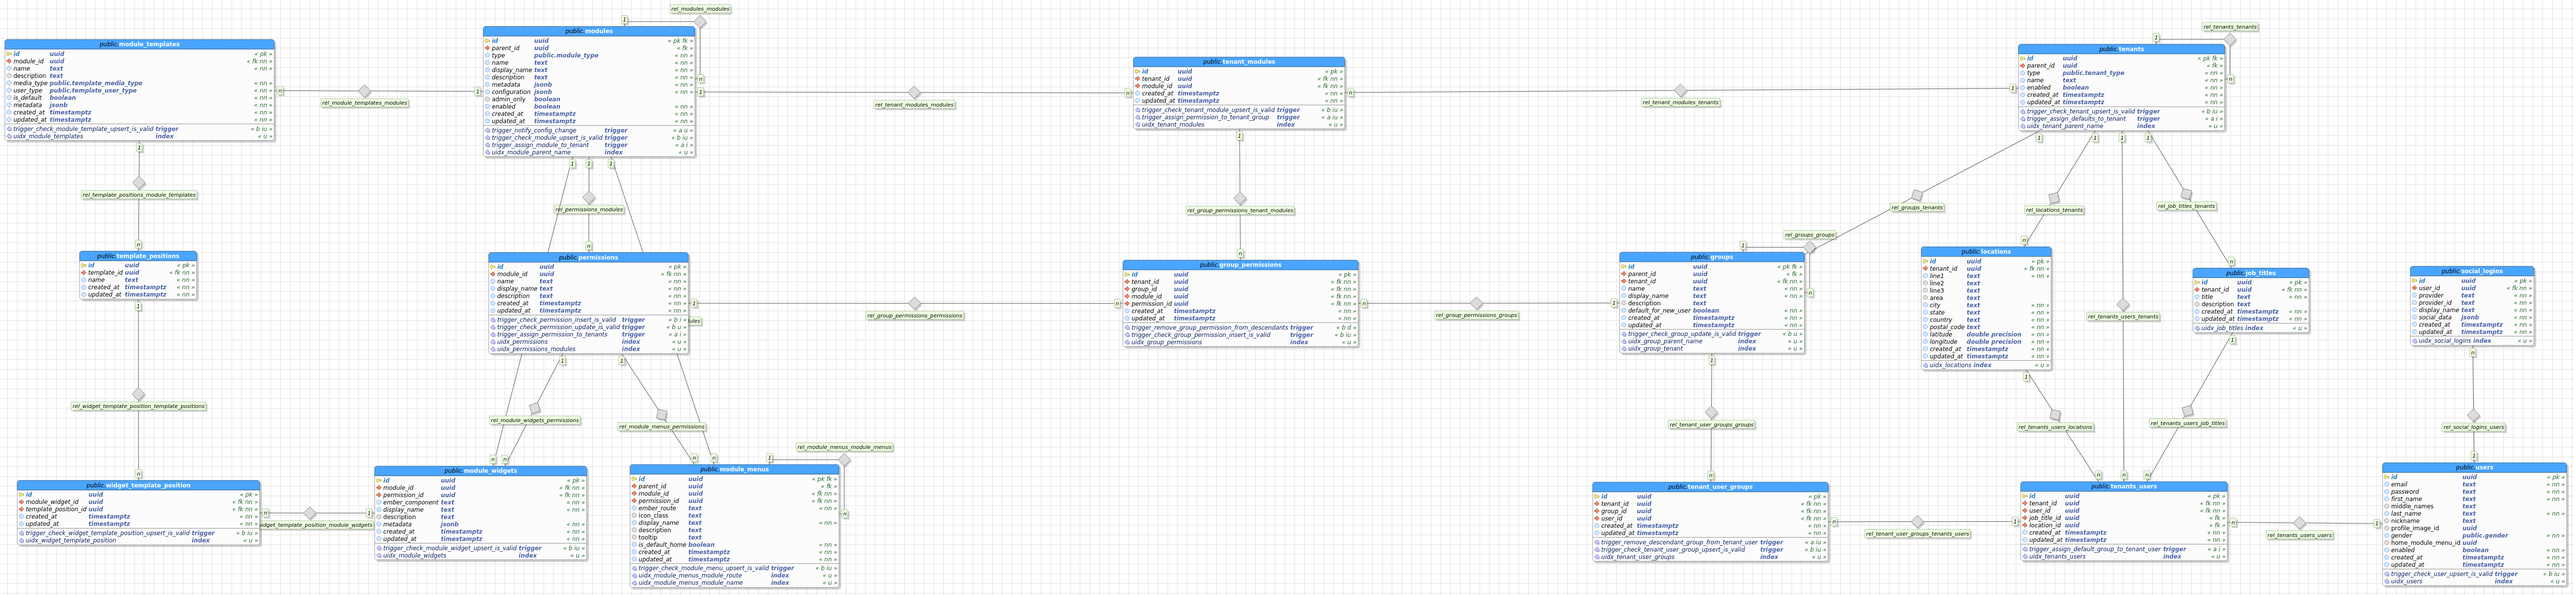
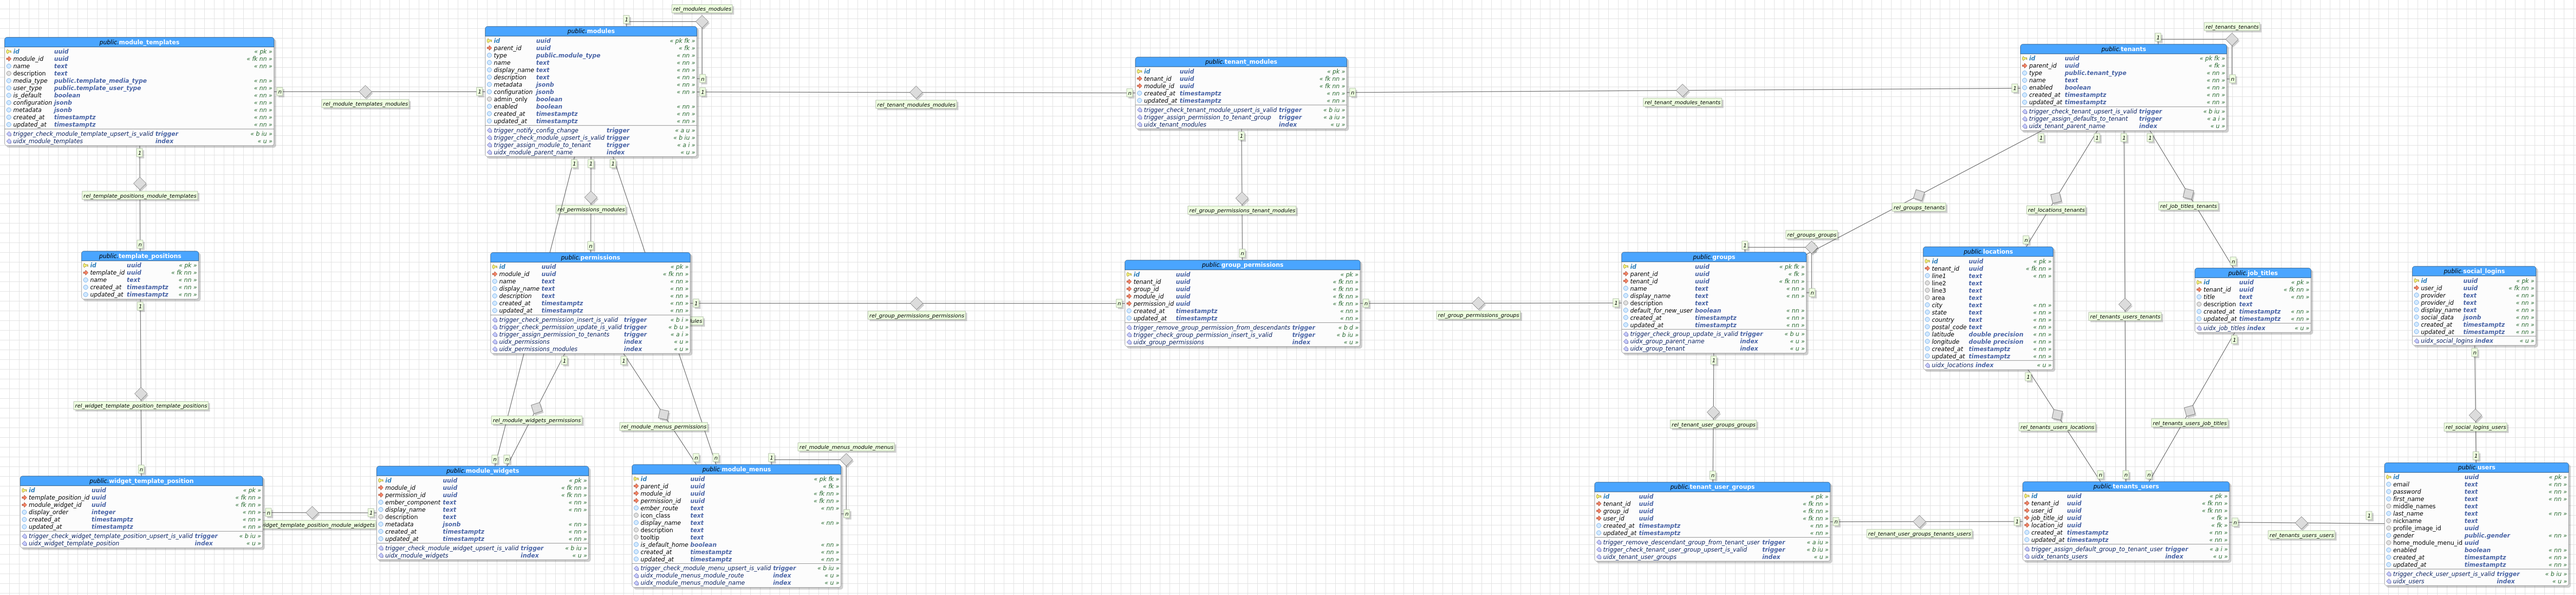
Changes in the DB schema & Knex migrations - along with a few minor bug-fixes

diff --git a/knex_migrations/migrations/20160426165450_twyr_webapp_schema.js b/knex_migrations/migrations/20160426165450_twyr_webapp_schema.js
@@ -12,7 +12,7 @@ exports.up = function(knex, Promise) {
 			knex.schema.raw("CREATE TYPE public.module_type AS ENUM ('component','middleware','service')"),
 			knex.schema.raw("CREATE TYPE public.tenant_type AS ENUM ('department','organization')"),
 			knex.schema.raw("CREATE TYPE public.template_media_type AS ENUM ('all','desktop', 'tablet', 'mobile', 'other')"),
-			knex.schema.raw("CREATE TYPE public.template_user_type AS ENUM ('all','public', 'registered', 'other')")
+			knex.schema.raw("CREATE TYPE public.template_user_type AS ENUM ('all','public', 'registered', 'administrator', 'other')")
 		]);
 	})
 	// Step 3: Setup primary tables  - those that aren't dependent on other tables (i.e. no foreign keys to other tables)
@@ -101,6 +101,7 @@ exports.up = function(knex, Promise) {
 				modTmplTbl.specificType('media_type', 'public.template_media_type').notNullable().defaultTo('all');
 				modTmplTbl.specificType('user_type', 'public.template_user_type').notNullable().defaultTo('all');
 				modTmplTbl.boolean('is_default').notNullable().defaultTo(false);
+				modTmplTbl.jsonb('configuration').notNullable().defaultTo('{}');
 				modTmplTbl.jsonb('metadata').notNullable().defaultTo('{}');
 				modTmplTbl.timestamp('created_at').notNullable().defaultTo(knex.fn.now());
 				modTmplTbl.timestamp('updated_at').notNullable().defaultTo(knex.fn.now());
@@ -180,7 +181,7 @@ exports.up = function(knex, Promise) {
 				modWidgetsTbl.jsonb('metadata').notNullable().defaultTo('{}');
 				modWidgetsTbl.timestamp('created_at').notNullable().defaultTo(knex.fn.now());
 				modWidgetsTbl.timestamp('updated_at').notNullable().defaultTo(knex.fn.now());
-				modWidgetsTbl.unique(['module_id', 'ember_component']);
+				modWidgetsTbl.unique(['ember_component']);
 			}),
 
 			knex.schema.withSchema('public')
@@ -197,7 +198,7 @@ exports.up = function(knex, Promise) {
 				modMenusTbl.boolean('is_default_home').notNullable().defaultTo(false);
 				modMenusTbl.timestamp('created_at').notNullable().defaultTo(knex.fn.now());
 				modMenusTbl.timestamp('updated_at').notNullable().defaultTo(knex.fn.now());
-				modMenusTbl.unique(['module_id', 'ember_route']);
+				modMenusTbl.unique(['ember_route']);
 				modMenusTbl.unique(['module_id', 'display_name']);
 			}),
 
@@ -259,11 +260,12 @@ exports.up = function(knex, Promise) {
 			knex.schema.withSchema('public')
 			.createTableIfNotExists('widget_template_position', function(widgetTmplPositionTbl) {
 				widgetTmplPositionTbl.uuid('id').notNullable().primary().defaultTo(knex.raw('uuid_generate_v4()'));
-				widgetTmplPositionTbl.uuid('module_widget_id').notNullable().references('id').inTable('module_widgets').onDelete('CASCADE').onUpdate('CASCADE');
 				widgetTmplPositionTbl.uuid('template_position_id').notNullable().references('id').inTable('template_positions').onDelete('CASCADE').onUpdate('CASCADE');
+				widgetTmplPositionTbl.uuid('module_widget_id').notNullable().references('id').inTable('module_widgets').onDelete('CASCADE').onUpdate('CASCADE');
+				widgetTmplPositionTbl.integer('display_order').notNullable().defaultTo(1);
 				widgetTmplPositionTbl.timestamp('created_at').notNullable().defaultTo(knex.fn.now());
 				widgetTmplPositionTbl.timestamp('updated_at').notNullable().defaultTo(knex.fn.now());
-				widgetTmplPositionTbl.unique(['module_widget_id', 'template_position_id']);
+				widgetTmplPositionTbl.unique(['template_position_id', 'module_widget_id']);
 			})
 		]);
 	})
@@ -831,13 +833,14 @@ exports.up = function(knex, Promise) {
 					'COST 1 ' +
 					'AS $$ ' +
 				'BEGIN ' +
+					'RETURN QUERY ' +
 					'SELECT DISTINCT ' +
-						'tenant_id, ' +
-						'permission_id ' +
+						'A.tenant_id AS tenant_id, ' +
+						'A.permission_id AS permission_id ' +
 					'FROM ' +
-						'group_permissions ' +
+						'group_permissions A ' +
 					'WHERE ' +
-						'group_id IN (SELECT group_id FROM tenant_user_groups WHERE user_id = userid); ' +
+						'A.group_id IN (SELECT group_id FROM tenant_user_groups WHERE user_id = userid); ' +
 				'END; ' +
 				'$$;'
 			),

diff --git a/knex_migrations/seeds/twyr_server_framework.js b/knex_migrations/seeds/twyr_server_framework.js
@@ -35,10 +35,19 @@ exports.seed = function(knex, Promise) {
 			parentId = parentId[0];
 
 			return Promise.all([
-				knex("permissions").insert({ 'module_id': parentId, 'name': 'public', 'display_name': 'Public User Permissions', 'description': 'The Twy\'r API Gateway Permissions for non-logged-in Users' }),
-				knex("permissions").insert({ 'module_id': parentId, 'name': 'registered', 'display_name': 'Registered User Permissions', 'description': 'The Twy\'r API Gateway Permissions for logged-in Users' }),
-				knex("permissions").insert({ 'module_id': parentId, 'name': 'administrator', 'display_name': 'Administrator Permissions', 'description': 'The Twy\'r API Gateway Permissions for Administrators' }),
-				knex("permissions").insert({ 'module_id': parentId, 'name': 'super-administrator', 'display_name': 'Super Administrator Permissions', 'description': 'The Twy\'r API Gateway Permissions for Super Administrators' })
+				parentId,
+				knex("permissions").insert({ 'module_id': parentId, 'name': 'public', 'display_name': 'Public User Permissions', 'description': 'The Twy\'r Portal Permissions for non-logged-in Users' }),
+				knex("permissions").insert({ 'module_id': parentId, 'name': 'registered', 'display_name': 'Registered User Permissions', 'description': 'The Twy\'r Portal Permissions for logged-in Users' }),
+				knex("permissions").insert({ 'module_id': parentId, 'name': 'administrator', 'display_name': 'Administrator Permissions', 'description': 'The Twy\'r Portal Permissions for Administrators' }),
+				knex("permissions").insert({ 'module_id': parentId, 'name': 'super-administrator', 'display_name': 'Super Administrator Permissions', 'description': 'The Twy\'r Portal Permissions for Super Administrators' })
+			]);
+		})
+		.then(function(parentId) {
+			parentId = parentId[0];
+
+			return Promise.all([
+				parentId,
+				knex("module_templates").insert({ 'module_id': parentId, 'name': 'bhairavi', 'description': 'The Twy\'r Portal default template', 'media_type': 'all', 'user_type': 'all', 'is_default': true, 'configuration': { 'title': 'Twy\'r Portal: Bhairavi Template' } }),
 			]);
 		});
 	})

diff --git a/app/modules/services/configuration-service/service.js b/app/modules/services/configuration-service/service.js
@@ -168,6 +168,30 @@ var configurationService = prime({
 		});
 	},
 
+	'getModuleId': function(module, callback) {
+		var self = this,
+			promiseResolutions = [];
+
+		Object.keys(self.$services).forEach(function(subService) {
+			promiseResolutions.push(self.$services[subService].getModuleIdAsync(module));
+		});
+
+		promises.all(promiseResolutions)
+		.then(function(moduleIds) {
+			var moduleId = null;
+			moduleIds.forEach(function(id) {
+				if(!id) return;
+				moduleId = id;
+			});
+
+			if(callback) callback(null, moduleId);
+			return null;
+		})
+		.catch(function(err) {
+			if(callback) callback(err);
+		});
+	},
+
 	'_processConfigChange': function(eventFirerModule, configUpdateModule, config) {
 		var self = this;
 		Object.keys(self.$services).forEach(function(subService) {

diff --git a/config/development/services/express-service.js b/config/development/services/express-service.js
@@ -4,7 +4,7 @@ exports.config = ({
 		"cert": "./ssl/portal.crt",
 		"rejectUnauthorized": false
 	},
-	"port": 8080,
+	"port": 8100,
 	"session": {
 		"key": "twyr-portal",
 		"ttl": 86400,
@@ -22,11 +22,11 @@ exports.config = ({
 		"secure": false,
 		"httpOnly": false
 	},
-	'corsAllowedDomains': [
-		'http://local-portal.twyrframework.com:9090'
-	],
 	"maxRequestSize": 1000000,
 	"requestTimeout": 25,
 	"templateEngine": "ejs",
-	"connectionTimeout": 30
+	"connectionTimeout": 30,
+	"corsAllowedDomains": [
+		"http://local-portal.twyrframework.com:9090"
+	]
 });

diff --git a/app/modules/services/configuration-service/services/database-configuration-service/service.js b/app/modules/services/configuration-service/services/database-configuration-service/service.js
@@ -207,6 +207,18 @@ var databaseConfigurationService = prime({
 		});
 	},
 
+	'getModuleId': function(module, callback) {
+		var self = this,
+			cachedModule = self._getCachedModule(module);
+
+		if(!cachedModule) {
+			if(callback) callback(null, null);
+			return;
+		}
+
+		if(callback) callback(null, cachedModule['id']);
+	},
+
 	'_processConfigChange': function(configUpdateModule, config) {
 		var currentModule = this;
 		while(currentModule.$module)

diff --git a/app/module-loader.js b/app/module-loader.js
@@ -514,7 +514,7 @@ var moduleLoader = prime({
 
 		// Start each component
 		Object.keys(this.$module.$components).forEach(function(thisComponentName) {
-			var thisComponent = this.$module.$components[thisComponentName],
+			var thisComponent = self.$module.$components[thisComponentName],
 				thisComponentDependencies = {};
 
 			if(!thisComponent.dependencies) {

diff --git a/app/modules/services/configuration-service/services/file-configuration-service/service.js b/app/modules/services/configuration-service/services/file-configuration-service/service.js
@@ -136,6 +136,10 @@ var fileConfigurationService = prime({
 		if(callback) callback(null, enabled);
 	},
 
+	'getModuleId': function(module, callback) {
+		if(callback) callback(null, null);
+	},
+
 	'_onNewConfiguration': function(filePath) {
 		var self = this,
 			rootPath = path.dirname(require.main.filename),
